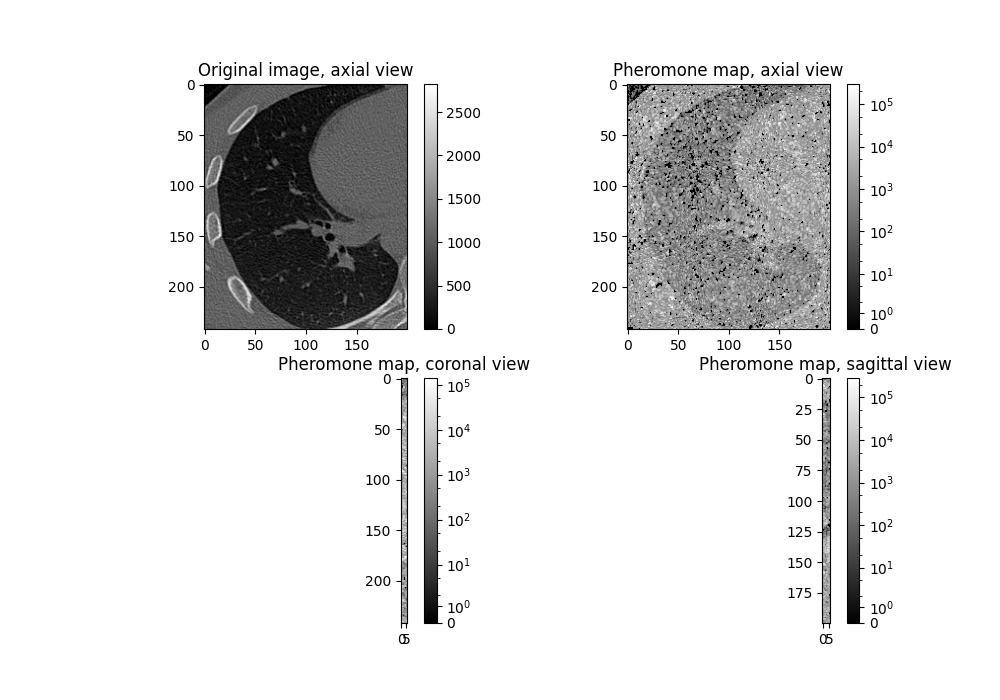
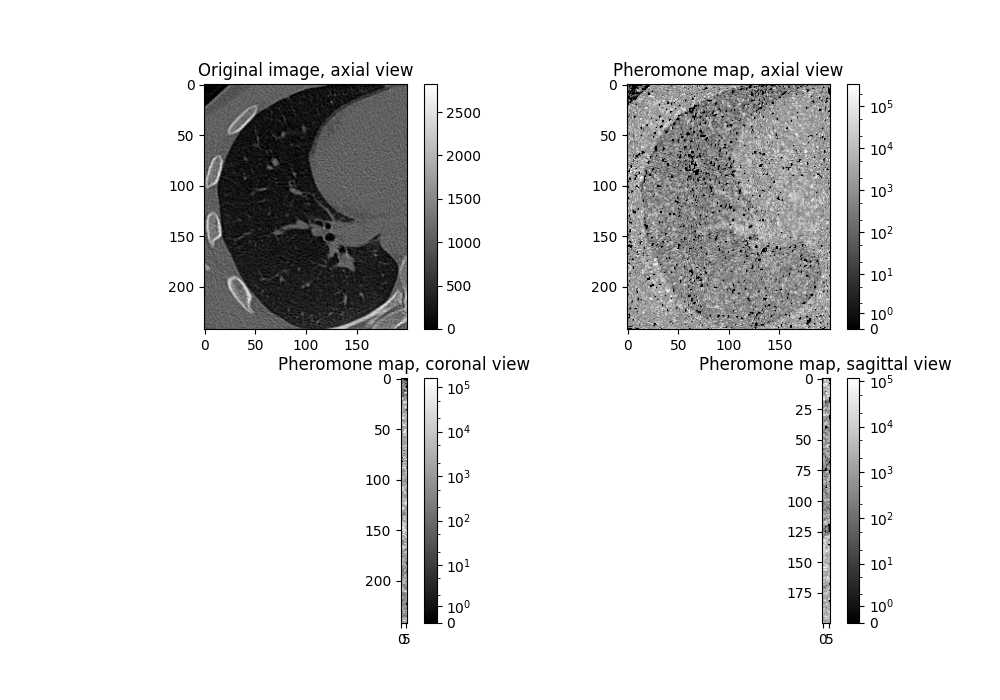
updated main

diff --git a/src/main.py b/src/main.py
@@ -170,7 +170,7 @@ def plot_display(
         [plot_1, plot_2, plot_3, plot_4], [ax[0][0], ax[0][1], ax[1][0], ax[1][1]]
     ):
         plt.colorbar(plot, ax=ax)
-    #plt.savefig("../results/CAM_results.png")
+    plt.savefig("../results/CAM_results.png")
 
 
 def pool_initializer(pheromone_matrix, pheromone_matrix_shape):
@@ -210,7 +210,7 @@ def statistics(ants_number, image_matrix, pheromone_matrix):
         The pheromone map.
     """
 
-    image_voxels = np.transpose(np.array(np.nonzero(image_matrix))).reshape(-1, 3)
+    image_voxels = np.transpose(np.array(np.nonzero(image_matrix>100))).reshape(-1, 3)
     visited_voxs = np.unique(
         np.transpose(np.array(np.nonzero(pheromone_matrix[:, :, :, 0]))).reshape(-1, 3),
         axis=0,
@@ -266,7 +266,7 @@ def statistics(ants_number, image_matrix, pheromone_matrix):
     ax[1][0].set_title("S and E vs pheromone threshold")
     ax[1][1].plot(cont_level, sensitivity, marker="o", linestyle="")
     ax[1][1].set_title("S vs C")
-    #plt.savefig("../results/CAM_statistics.png")
+    plt.savefig("../results/CAM_statistics.png")
 
 
 def set_image_and_pheromone(file_path):
